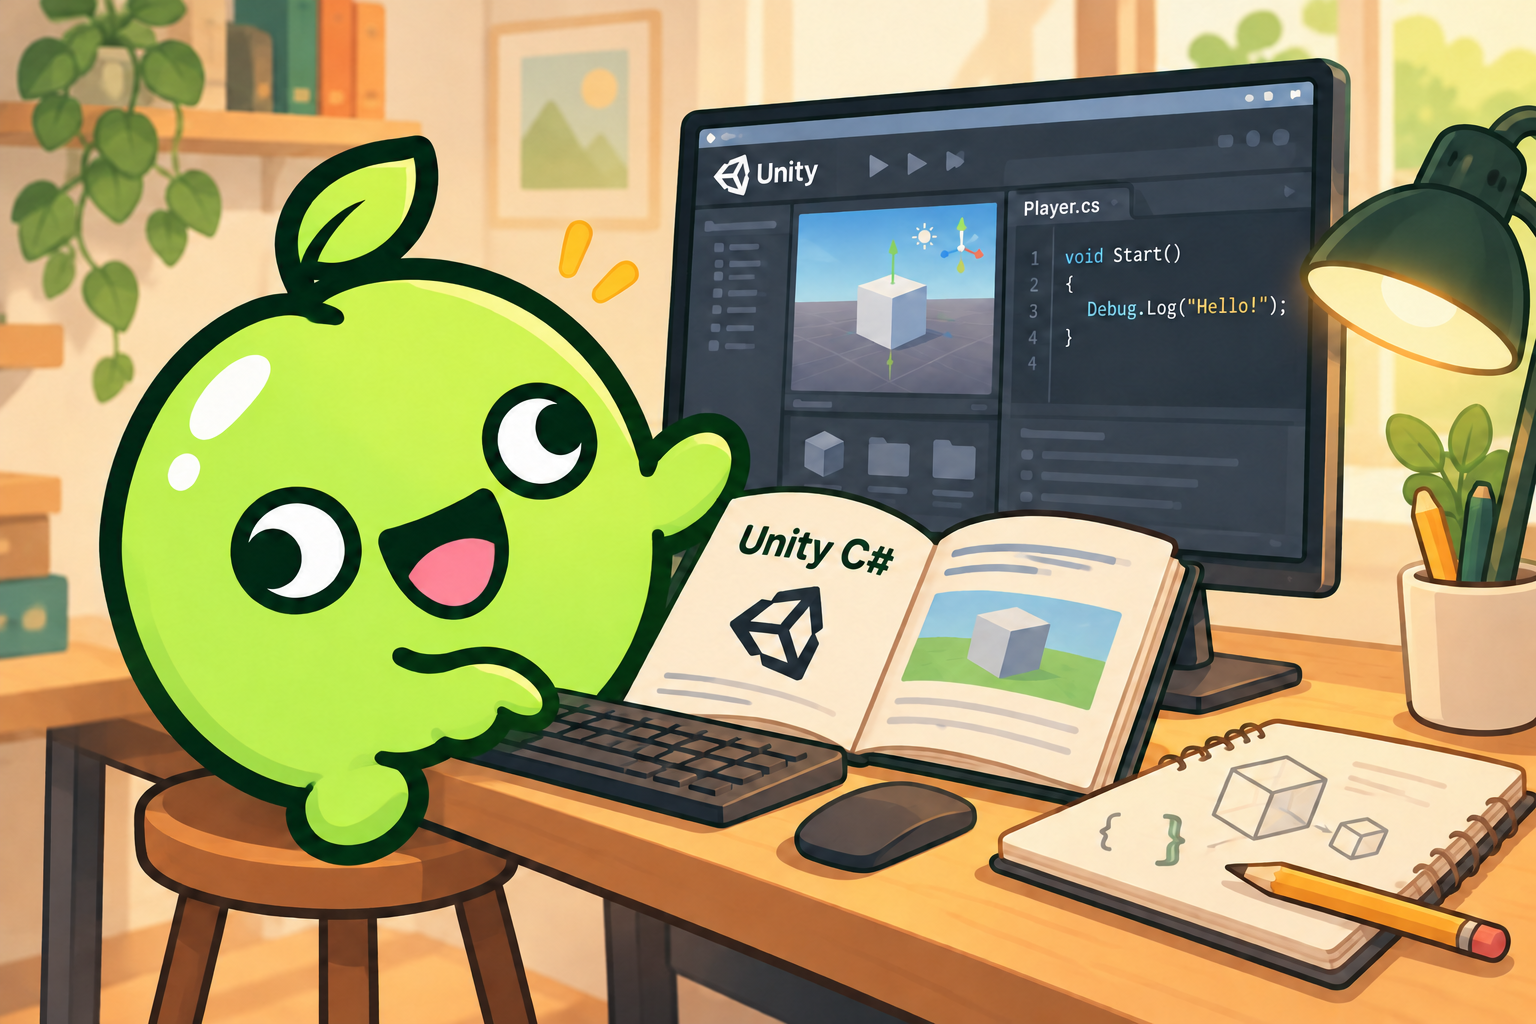
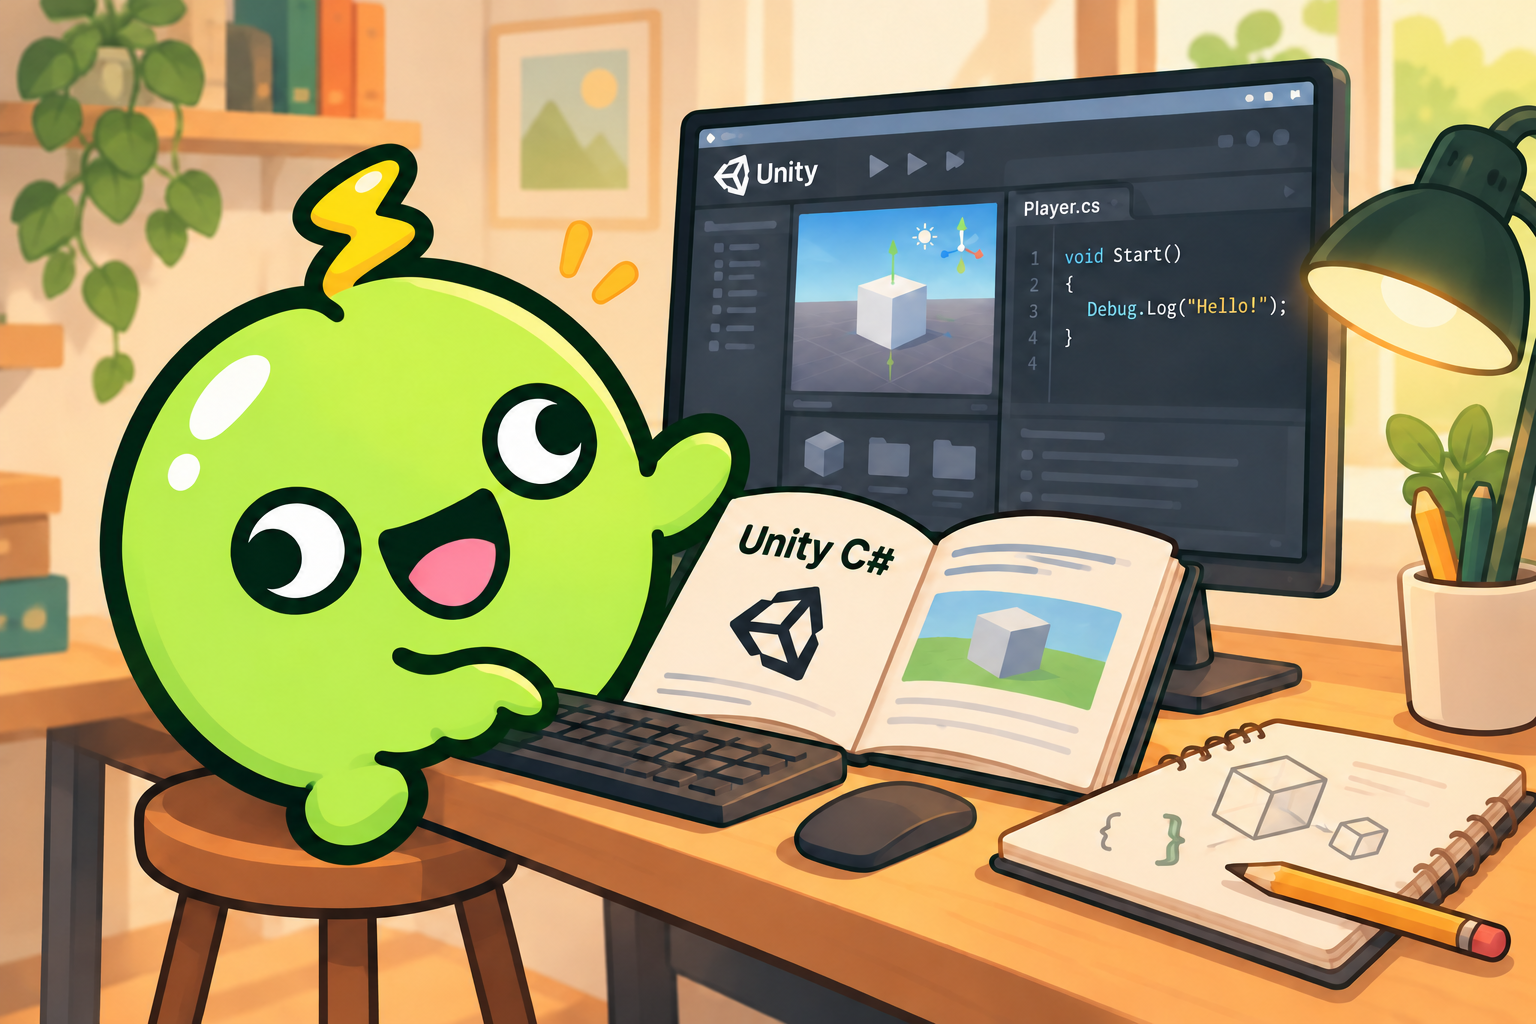
Use yellow lightning mascot for blog and CSharp study image

diff --git a/_includes/favicons.html b/_includes/favicons.html
@@ -1,4 +1,4 @@
-{% capture favicon_path %}{{ '/assets/img/favicons/green-mascot-v1' | relative_url }}{% endcapture %}
+{% capture favicon_path %}{{ '/assets/img/favicons/yellow-lightning-v1' | relative_url }}{% endcapture %}
 <link rel="icon" type="image/png" href="{{ favicon_path }}/favicon-32x32.png" sizes="32x32">
 <link rel="icon" type="image/png" href="{{ favicon_path }}/favicon-16x16.png" sizes="16x16">
 <link rel="icon" type="image/png" href="{{ favicon_path }}/favicon-96x96.png" sizes="96x96">
